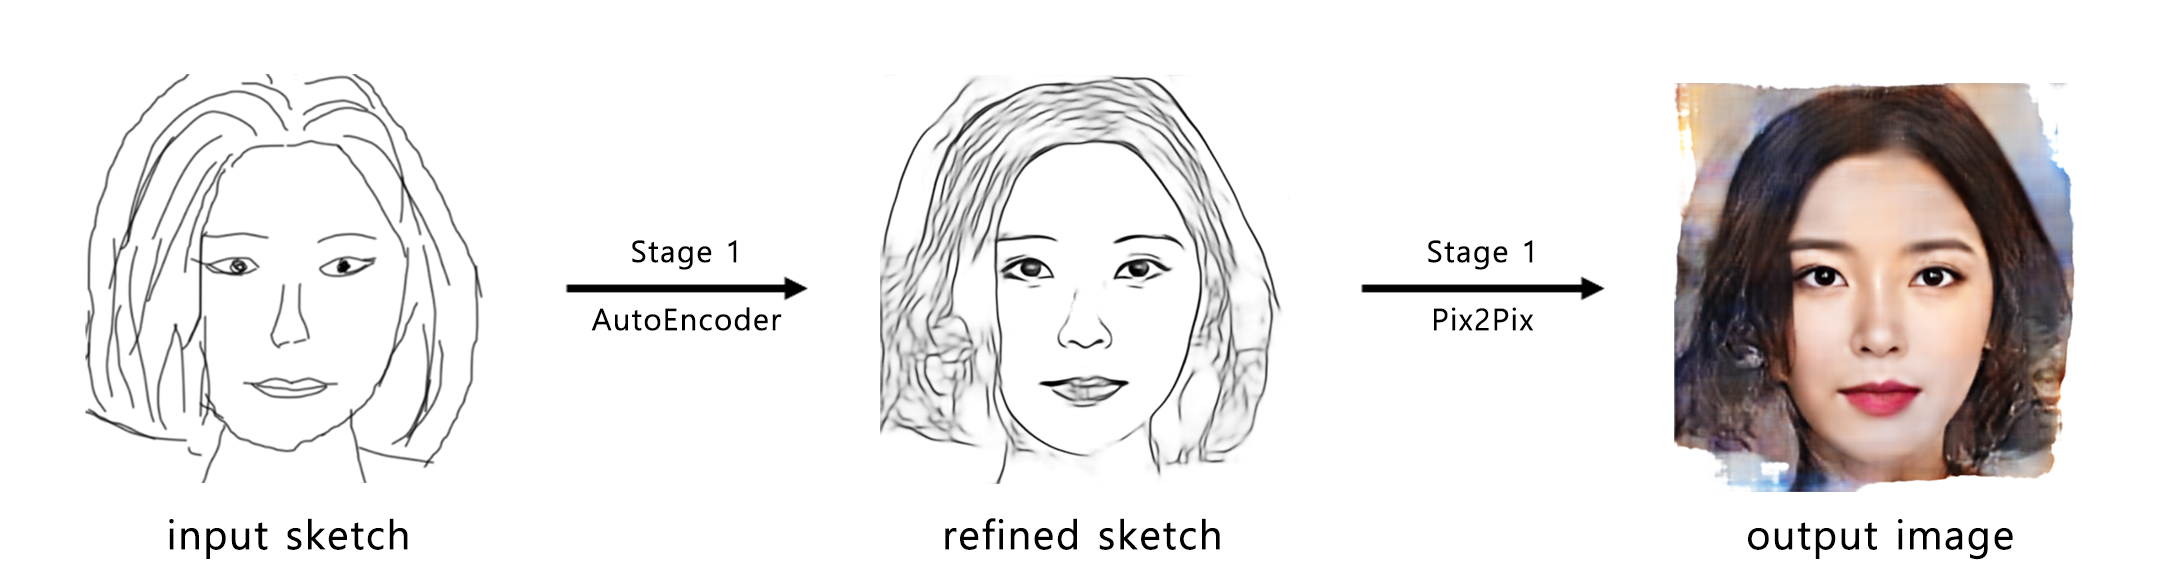
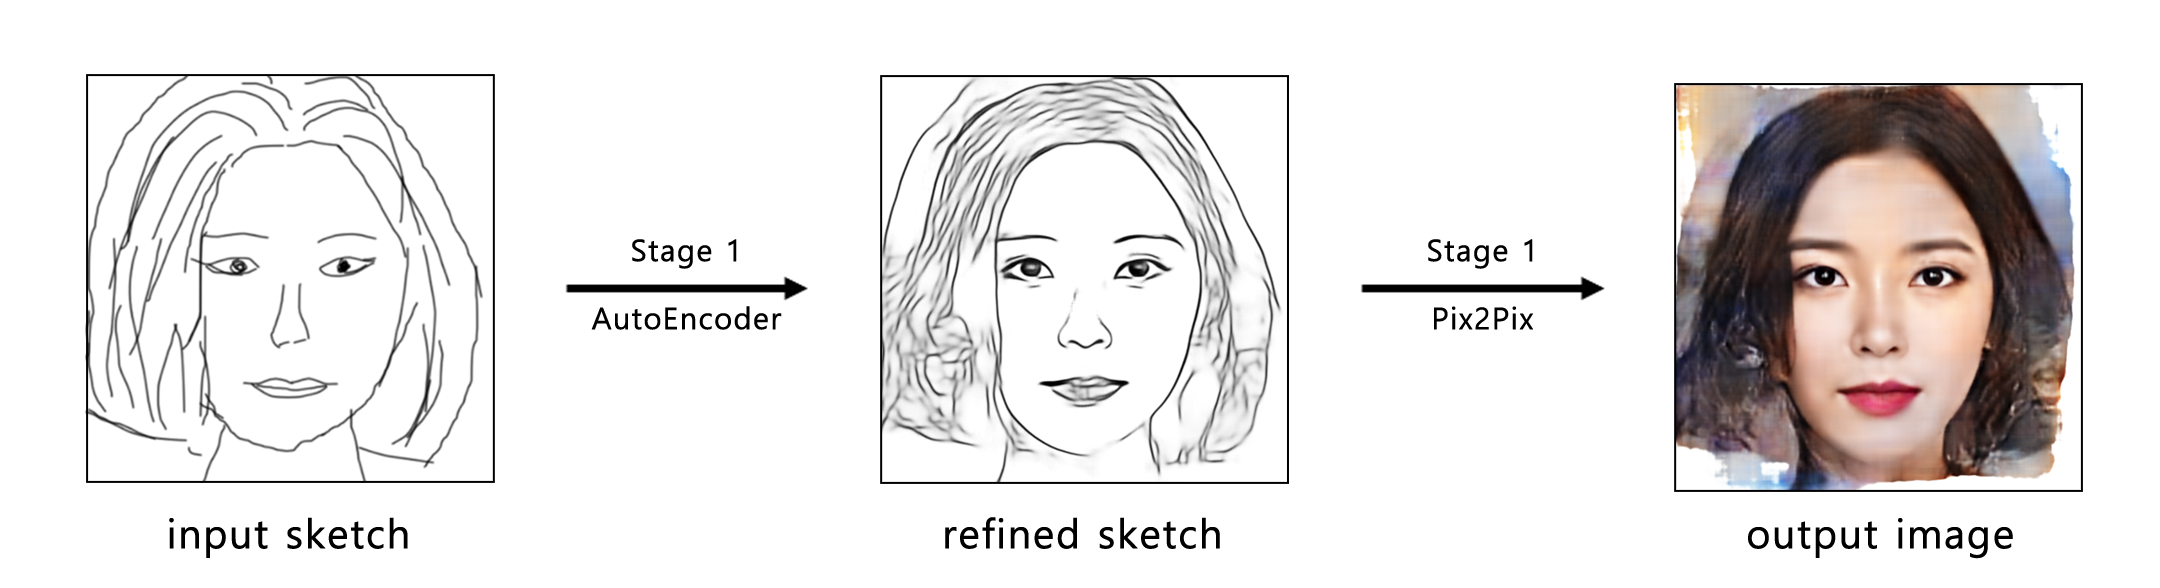
add pipeline.png

diff --git a/README.md b/README.md
@@ -1,58 +1,29 @@
 # Sketch2Idol: 나만의 여자 아이돌 만들기
 
+## Introduction
+
 본 프로젝트는 GAN를 이용해 손으로 그린 스케치를 아이돌 이미지로 변환하는 Image To Image Translation을 주제로 합니다.
 
-![project_figure](https://github.com/boostcampaitech2/final-project-level3-cv-12/blob/main/sample_image/main2.png?raw=true)
+![project_figure](https://github.com/boostcampaitech2/final-project-level3-cv-12/blob/main/sample_image/main.png?raw=true)
+
+## Program Flow
+
+![project_pipeline](https://github.com/boostcampaitech2/final-project-level3-cv-12/blob/main/sample_image/pipeline.png?raw=true)
 
 ## Data
 
-- airflow: 데이터 파이프라인 자동화
-  - webserver_config.py: airflow 웹 서버 설정 파일
-  - airflow.cfg: airflow 스케줄러 설정 파일
-  - airflow.db
-  - airflow-webserver.pid
-  - dags
-    - data_pipeline.py: 데이터 파이프라인 자동화 설정 파일
-
-- dockers
-  - google_api_dir: 얼굴 추출 및 눈, 코, 입 포인트 json 파일 생성
-    - Dockerfile
-    - google_vision_api.py:
-    - init.sh
-    - remover.py: 이미지의 메타데이터를 삭제하여 전처리 안정화
-    - rename.py: 이미지 이름 순서대로 할당
-    - requirements.txt
-  - photocopy: 이미지 스케치화
-    - Dockerfile
-    - alignment.py: 모든 이미지의 눈, 입을 기준으로 이미지 재배열
-    - init.sh
-    - photocopy.py: OpenCV를 통한 스케치 이미지 생성
-    - requirements.txt
-    - sketch.py: 스케치 이미지 가공
-  - super_resolution: 이미지 화질 향상 및 통일
-    - Dockerfile
-    - init.sh
-    - requirements.txt
-  - mask.sh: 데이터 파이프 라인 수행 쉘 스크립트
-  - image_files : 이미지 관리 및 저장 폴더
-
-- upload_server
-  - number : 이미지 중복 방지를 위한 넘버링 파일
-  - server.py : 사용자로부터 이미지를 수신하는 서버
-  - poetry.lock
-  - pyproject.toml
 
 ## Model
 
-
+## Results
 
 ## Folder structure
 ## Authors
 
-박진한|유형진|이양재|임채영|최태종|한재현
-:-:|:-:|:-:|:-:|:-:|:-:
-<img src='https://github.com/boostcampaitech2/final-project-level3-cv-12/blob/main/sample_image/member/1.png?raw=true' height=80 width=80px></img>|<img src='https://github.com/boostcampaitech2/final-project-level3-cv-12/blob/main/sample_image/member/2.png?raw=true' height=80 width=80px></img>|<img src='https://github.com/boostcampaitech2/final-project-level3-cv-12/blob/main/sample_image/member/3.png?raw=true' height=80 width=80px></img>|<img src='https://github.com/boostcampaitech2/final-project-level3-cv-12/blob/main/sample_image/member/1.png?raw=true' height=80 width=80px></img>|<img src='https://github.com/boostcampaitech2/final-project-level3-cv-12/blob/main/sample_image/member/2.png?raw=true' height=80 width=80px></img>|<img src='https://github.com/boostcampaitech2/final-project-level3-cv-12/blob/main/sample_image/member/3.png?raw=true' height=80 width=80px></img>
-[Github](https://github.com/jinhan814)|[Github](https://github.com/jinhan814)|[Github](https://github.com/jinhan814)|[Github](https://github.com/jinhan814)|[Github](https://github.com/jinhan814)|[Github](https://github.com/jinhan814)
+|박진한|유형진|이양재|임채영|최태종|한재현|
+|:-:|:-:|:-:|:-:|:-:|:-:|
+|<img src='https://github.com/boostcampaitech2/final-project-level3-cv-12/blob/main/sample_image/member/1.png?raw=true' height=80 width=80px></img>|<img src='https://github.com/boostcampaitech2/final-project-level3-cv-12/blob/main/sample_image/member/2.png?raw=true' height=80 width=80px></img>|<img src='https://github.com/boostcampaitech2/final-project-level3-cv-12/blob/main/sample_image/member/3.png?raw=true' height=80 width=80px></img>|<img src='https://github.com/boostcampaitech2/final-project-level3-cv-12/blob/main/sample_image/member/1.png?raw=true' height=80 width=80px></img>|<img src='https://github.com/boostcampaitech2/final-project-level3-cv-12/blob/main/sample_image/member/2.png?raw=true' height=80 width=80px></img>|<img src='https://github.com/boostcampaitech2/final-project-level3-cv-12/blob/main/sample_image/member/3.png?raw=true' height=80 width=80px></img>|
+|[Github](https://github.com/jinhan814)|[Github](https://github.com/jinhan814)|[Github](https://github.com/jinhan814)|[Github](https://github.com/jinhan814)|[Github](https://github.com/jinhan814)|[Github](https://github.com/jinhan814)|
 
 ## reference
 
